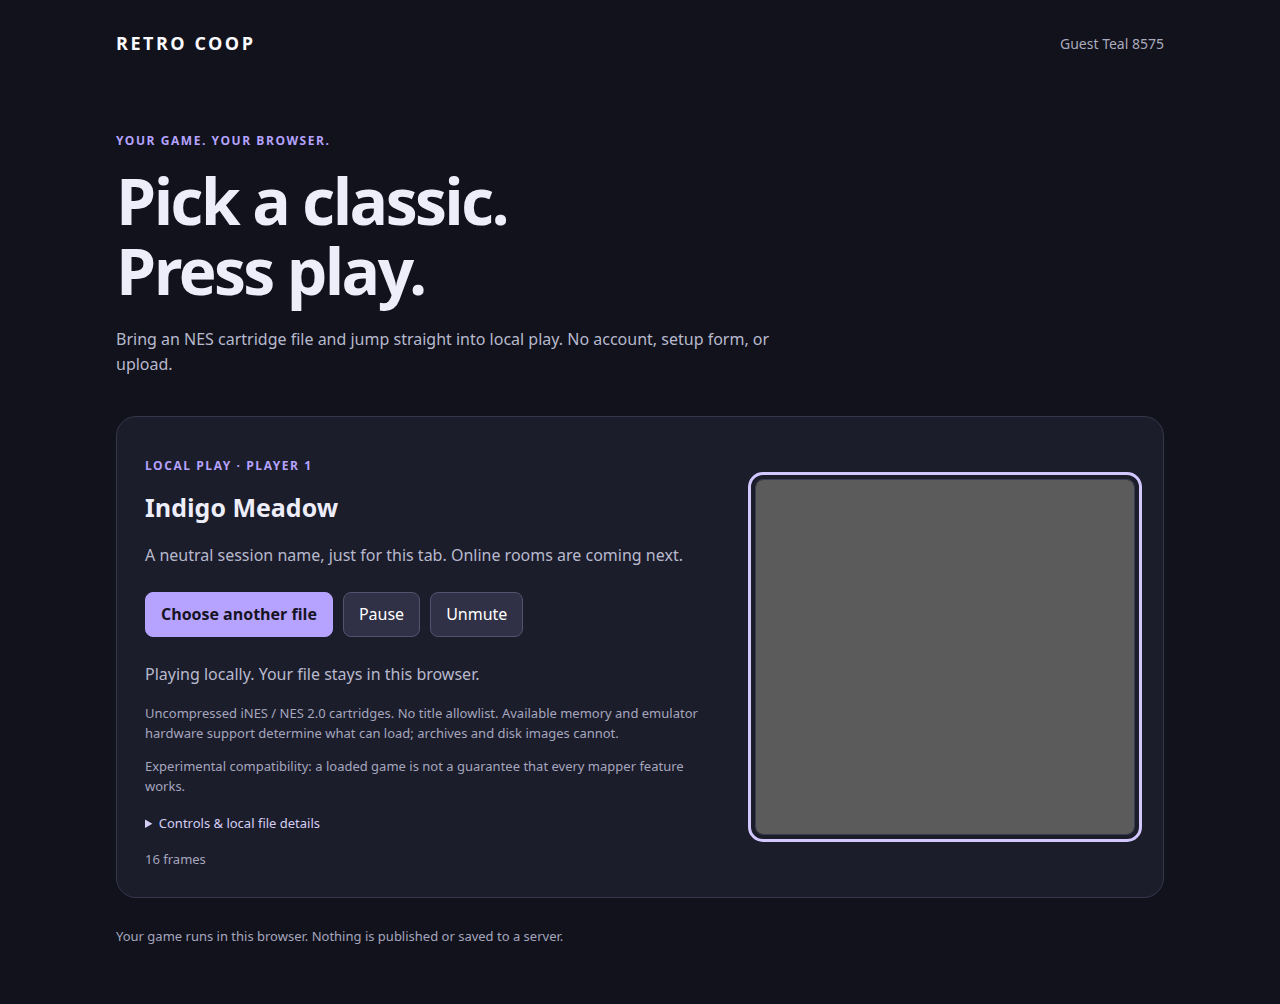
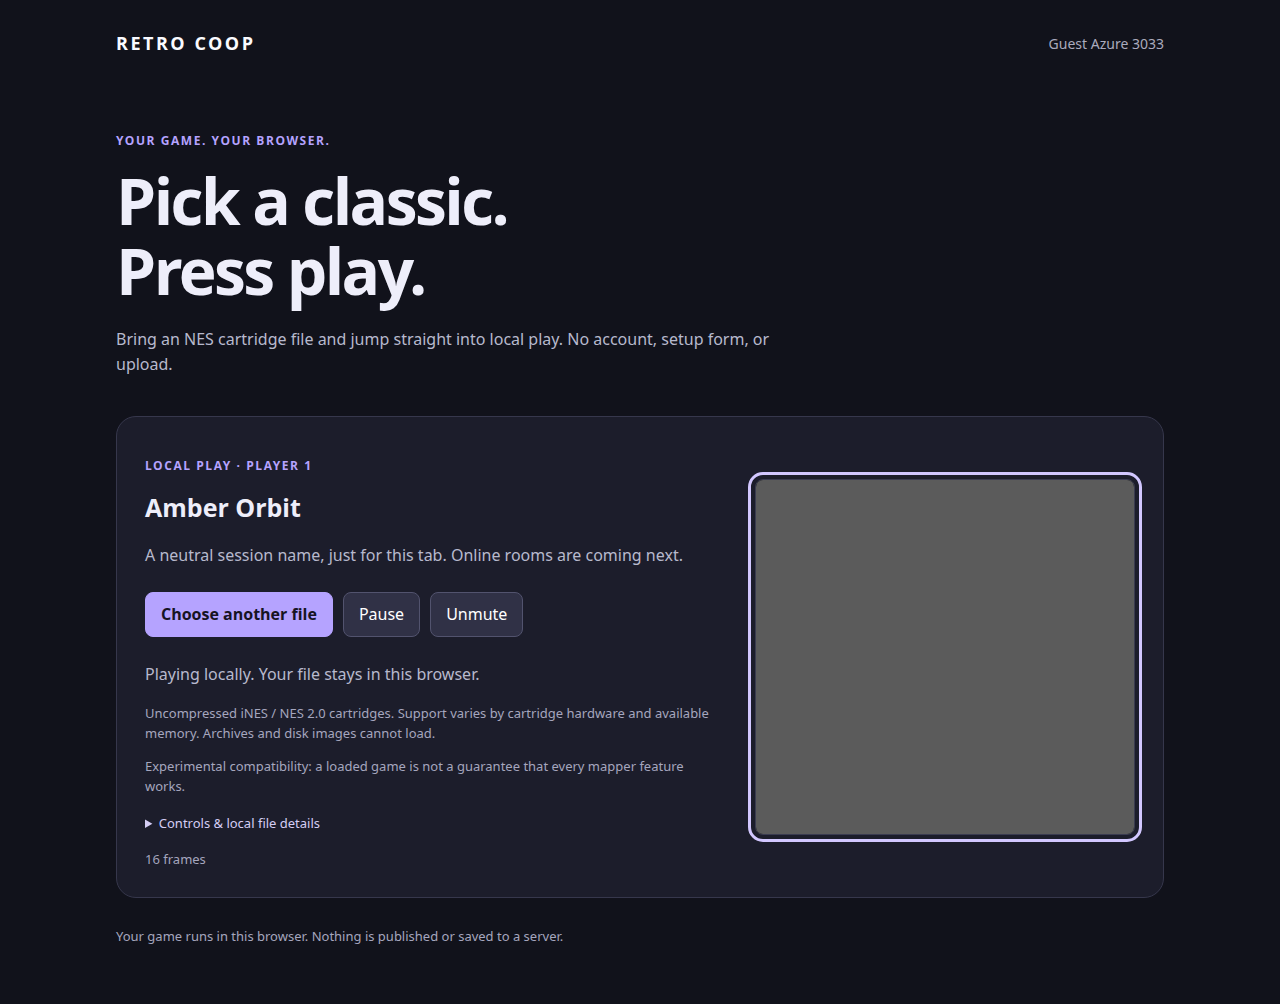
fix: report audio recovery and retain selection errors during play

Changed region(s): [[0.125, 0.7102, 0.5312, 0.741], [0.0938, 0.494, 0.2812, 0.5249], [0.8125, 0.0309, 0.9062, 0.0618]]

diff --git a/apps/client/src/main.tsx b/apps/client/src/main.tsx
@@ -16,13 +16,13 @@ function App() {
  return <main data-coordinator={clientConfig.coordinatorUrl}>
   <header><a href="/" className="brand">RETRO COOP</a><span data-testid="guest">{identity.guest}</span></header>
   <section className="intro"><p className="eyebrow">Your game. Your browser.</p><h1>Pick a classic.<br/>Press play.</h1><p>Bring an NES cartridge file and jump straight into local play. No account, setup form, or upload.</p></section>
-  <section className={`panel ${drag ? 'drag' : ''}`} aria-labelledby="player-title" onDragOver={event => {event.preventDefault(); setDrag(true);}} onDragLeave={event => {if(!event.currentTarget.contains(event.relatedTarget as Node)) setDrag(false);}} onDrop={event => {event.preventDefault();setDrag(false);if(event.dataTransfer.files.length === 1) void runtime.current?.load(event.dataTransfer.files[0]); else setState(old => ({...old,status:'Choose one NES cartridge at a time.'}));}}>
+  <section className={`panel ${drag ? 'drag' : ''}`} aria-labelledby="player-title" onDragOver={event => {event.preventDefault(); setDrag(true);}} onDragLeave={event => {if(!event.currentTarget.contains(event.relatedTarget as Node)) setDrag(false);}} onDrop={event => {event.preventDefault();setDrag(false);if(event.dataTransfer.files.length === 1) void runtime.current?.load(event.dataTransfer.files[0]); else runtime.current?.rejectSelection('Choose one NES cartridge at a time. Your previous game is preserved.');}}>
    <div><p className="eyebrow">Local play · Player 1</p><h2 id="player-title">{state.loaded ? identity.room : 'Drop your NES game here'}</h2>
    <p>{state.loaded ? 'A neutral session name, just for this tab. Online rooms are coming next.' : 'Choose a file, or drop it anywhere in this panel. Your file stays on this device.'}</p>
    <input ref={picker} type="file" accept=".nes" hidden aria-label="NES cartridge file" onChange={event => void runtime.current?.load(event.target.files?.[0])}/>
-   <div className="controls"><button onClick={choose}>{state.loaded ? 'Choose another file' : 'Choose NES file'}</button>{state.loading && <button onClick={() => runtime.current?.cancel()}>Cancel loading</button>}<button disabled={!state.loaded} onClick={() => state.running ? runtime.current?.pause() : runtime.current?.resume()}>{state.running ? 'Pause' : 'Resume'}</button><button aria-pressed={muted} onClick={() => {const value = !muted;setMuted(value);runtime.current?.setMuted(value);}}>{muted ? 'Unmute' : 'Mute'}</button></div>
-   <p role="status" aria-live="polite">{state.status}</p>
-   <p className="hint">Uncompressed iNES / NES 2.0 cartridges. No title allowlist. Available memory and emulator hardware support determine what can load; archives and disk images cannot.</p>
+   <div className="controls"><button onClick={choose}>{state.loaded ? 'Choose another file' : 'Choose NES file'}</button>{state.loading && <button onClick={() => runtime.current?.cancel()}>Cancel loading</button>}<button disabled={!state.loaded || state.loading} onClick={() => state.running ? runtime.current?.pause() : runtime.current?.resume()}>{state.running ? 'Pause' : 'Resume'}</button><button aria-pressed={muted} onClick={() => {const value = !muted;setMuted(value);runtime.current?.setMuted(value);}}>{muted ? 'Unmute' : 'Mute'}</button></div>
+   <p role="status" aria-live="polite">{state.status}</p>{state.audioIssue && <p className="hint">{state.audioIssue} <button onClick={() => runtime.current?.retryAudio()}>Retry sound</button></p>}
+   <p className="hint">Uncompressed iNES / NES 2.0 cartridges. Support varies by cartridge hardware and available memory. Archives and disk images cannot load.</p>
    <p className="hint">Experimental compatibility: a loaded game is not a guarantee that every mapper feature works.</p>
    <details><summary>Controls &amp; local file details</summary><p className="hint">Focus the screen to play. Arrow keys: move · X: A · Z: B · Enter: Start · Shift: Select. Standard gamepad buttons and D-pad work too. Switching windows pauses play.</p>
    {state.fingerprint && <dl data-testid="fingerprint"><dt>Cartridge</dt><dd>{state.fingerprint.cartridge.format} · mapper {state.fingerprint.cartridge.mapper} / {state.fingerprint.cartridge.submapper} · {state.fingerprint.cartridge.region} · {state.fingerprint.cartridge.bytes} bytes</dd><dt>Exact file SHA-256</dt><dd>{state.fingerprint.romSha256}</dd><dt>Emulator build SHA-256</dt><dd>{state.fingerprint.coreSha256}</dd><dt>Local settings (schema {state.fingerprint.localSchema})</dt><dd>{state.fingerprint.settings}</dd></dl>}</details>

diff --git a/apps/client/src/player.ts b/apps/client/src/player.ts
@@ -4,7 +4,7 @@ import { createAudioQueue } from '../../../spikes/d02/demo/runtime/audio.js';
 import { inspectCartridge, hex, type Cartridge } from './cartridge.ts';
 
 export type LocalFingerprint = { romSha256: string; coreSha256: string; localSchema: 1; settings: 'auto-region;zero-ram;48000hz;standard-p1-p2'; cartridge: Cartridge };
-export type PlayerState = { status: string; loading: boolean; running: boolean; loaded: boolean; frames: number; fingerprint?: LocalFingerprint };
+export type PlayerState = { status: string; loading: boolean; running: boolean; loaded: boolean; frames: number; audioIssue?: string; fingerprint?: LocalFingerprint };
 /** Owns browser-local resources. A candidate replaces the active worker only after initialization succeeds. */
 export class LocalPlayer {
  private active?: Worker;
@@ -28,7 +28,7 @@ export class LocalPlayer {
   canvas.addEventListener('blur',this.release);
   this.animation = requestAnimationFrame(this.tick);
  }
- private publish(patch: Partial<PlayerState>) { this.state = {...this.state,...patch}; this.update(this.state); }
+ private publish(patch: Partial<PlayerState>) { if(this.disposed) return; this.state = {...this.state,...patch}; this.update(this.state); }
  private send(worker: Worker, message: WorkerRequest, transfer: Transferable[] = []) { worker.postMessage(message,transfer); }
  private release = () => { this.keys = 0; };
  private down = (event: KeyboardEvent) => { const bit = keyMap[event.code as keyof typeof keyMap]; if(bit && document.activeElement === this.canvas && this.state.running) { event.preventDefault(); this.keys |= bit; } };
@@ -44,6 +44,7 @@ export class LocalPlayer {
   this.send(this.active,{type:'frame',p1:this.keys | pad,p2:0});
  };
  private abandonCandidate() { ++this.generation; this.reader?.abort(); this.reader = undefined; this.candidate?.terminate(); this.candidate = undefined; }
+ rejectSelection(message: string) { this.abandonCandidate(); this.publish({loading:false,status:message}); }
  cancel() {
   this.abandonCandidate();
   this.publish({loading:false,status:this.state.loaded ? 'Selection cancelled. Your previous game is still here.' : 'Selection cancelled. Choose a game whenever you’re ready.'});
@@ -58,11 +59,12 @@ export class LocalPlayer {
   this.activateAudio(); this.last = 0; this.publish({running:true,status:'Playing locally. Your file stays in this browser.'}); this.canvas.focus();
  }
  setMuted(value: boolean) { this.muted = value; if(this.gain) this.gain.gain.value = value ? 0 : 1; this.audio.flush(); if(!value) this.activateAudio(); }
+ retryAudio() { this.activateAudio(); }
  private activateAudio() {
   try {
    if(!this.context) { this.context = new AudioContext(); this.gain = this.context.createGain(); this.gain.gain.value = this.muted ? 0 : 1; this.gain.connect(this.context.destination); }
-   void this.context.resume().catch(() => {}); // Audio permission must never prevent local play; Unmute retries from a gesture.
-  } catch { /* A browser without Web Audio can still run the cartridge. */ }
+   void this.context.resume().then(() => this.publish({audioIssue:this.context?.state === 'running' ? undefined : 'Sound is blocked. Retry sound to allow it; your game can continue.'})).catch(() => this.publish({audioIssue:'Sound could not start. Retry sound; your game can continue.'}));
+  } catch { this.publish({audioIssue:'Sound is unavailable in this browser. Your game can continue.'}); }
  }
  private read(file: File): Promise<ArrayBuffer> {
   return new Promise((resolve,reject) => {

diff --git a/scripts/foundation/browser_smoke.py b/scripts/foundation/browser_smoke.py
@@ -137,10 +137,22 @@ with http.server.ThreadingHTTPServer(('127.0.0.1', 0), handler) as server:
         page.set_viewport_size({'width':390,'height':844})
         assert page.evaluate('document.documentElement.scrollWidth<=innerWidth')
         page.screenshot(path=str(output.with_suffix('.mobile.png')),full_page=True)
+        # Audio permission failure is visible and never blocks frames; an explicit retry recovers.
+        audio_page = browser.new_page()
+        audio_page.add_init_script('''const resume=AudioContext.prototype.resume; window.denySound=true;
+          AudioContext.prototype.resume=function(){return denySound ? Promise.reject(new Error('denied')) : resume.call(this)};''')
+        audio_page.goto(f'http://127.0.0.1:{server.server_port}/')
+        audio_page.set_input_files('input[type=file]', {'name':'audio-check.nes','mimeType':'application/octet-stream','buffer':rom})
+        audio_page.wait_for_function("Number(document.querySelector('output').textContent.split(' ')[0])>10")
+        assert audio_page.get_by_role('button',name='Retry sound').is_visible()
+        audio_page.evaluate('denySound=false')
+        audio_page.get_by_role('button',name='Retry sound').click()
+        audio_page.get_by_role('button',name='Retry sound').wait_for(state='detached')
+        audio_page.close()
         assert not errors, errors
         assert all(method == 'GET' and url.startswith(f'http://127.0.0.1:{server.server_port}/') for method,url in requests), requests
         assert not any(name in url for _,url in requests for name in ['private','unknown','drag-'])
-        result = {'result':'pass','browser':browser.version,'duration_seconds':round(time.monotonic()-started,2),'audio':proof,'input_changed_canvas':True,'paused_canvas_stable':True,'cancel_and_blur_preserve_previous':True,'latest_selection_wins':True,'invalid_header_and_mapper_preserve_previous':True,'chooser_dismissal_preserved':True,'exact_rom_and_core_sha256':True,'unknown_mappers_loaded':[0,1,2,3,4,7],'nes2_over_8mib_loaded':True,'picker_and_drop_start_automatically':True,'mobile_no_overflow':True,'page_errors':errors,'requests':requests,'coordinator_url':page.locator('main').get_attribute('data-coordinator')}
+        result = {'result':'pass','browser':browser.version,'duration_seconds':round(time.monotonic()-started,2),'audio':proof,'audio_denial_does_not_block_and_retry_recovers':True,'input_changed_canvas':True,'paused_canvas_stable':True,'cancel_and_blur_preserve_previous':True,'latest_selection_wins':True,'invalid_header_and_mapper_preserve_previous':True,'chooser_dismissal_preserved':True,'exact_rom_and_core_sha256':True,'unknown_mappers_loaded':[0,1,2,3,4,7],'nes2_over_8mib_loaded':True,'picker_and_drop_start_automatically':True,'mobile_no_overflow':True,'page_errors':errors,'requests':requests,'coordinator_url':page.locator('main').get_attribute('data-coordinator')}
         output.write_text(json.dumps(result,indent=2)+'\n')
         print(json.dumps(result,indent=2))
         browser.close()

diff --git a/docs/implementation/d05-local-play.md b/docs/implementation/d05-local-play.md
@@ -14,7 +14,7 @@ For a production bundle run `npm run build`. With Playwright 1.58.0 and Chromium
 python3 scripts/foundation/browser_smoke.py --output /tmp/foundation.local.json
 ```
 
-`--chrome` uses installed Chrome. The browser check uses the original generated diagnostic, never a downloaded commercial title. It observes rendered changes from input and nonzero PCM scheduled through the muted game gain; checks picker/drop, invalid file/hardware preservation, cancellation and late digest completion; compares exact ROM and WASM hashes; loads representative mapper headers 0/1/2/3/4/7 and an NES 2.0 file over 8 MiB; inspects outbound methods/URLs and mobile overflow. These fixtures exercise admission and basic execution, not bank switching or the complete D20 compatibility matrix. Browser evidence and screenshots are retained by CI's existing `foundation.local.*.png` artifact pattern.
+`--chrome` uses installed Chrome. The browser check uses the original generated diagnostic, never a downloaded commercial title. It observes rendered changes from input and nonzero PCM scheduled through the muted game gain; checks picker/drop, invalid file/hardware preservation, cancellation and late digest completion; compares exact ROM and WASM hashes; proves audio denial leaves frames running and explicit retry recovers; loads representative mapper headers 0/1/2/3/4/7 and an NES 2.0 file over 8 MiB; inspects outbound methods/URLs and mobile overflow. These fixtures exercise admission and basic execution, not bank switching or the complete D20 compatibility matrix. Browser evidence and screenshots are retained by CI's existing `foundation.local.*.png` artifact pattern.
 
 The README's full `timeout 60s sh scripts/preflight.sh` includes focused header tests, generated-name isolation and existing TypeScript/service/codec checks. Presubmit retains the shared 30-minute deadline. No additional long post-submit test is required for this slice. The release-level 30-attempt cross-browser startup budgets remain D21/D23 qualification; the single browser smoke is not a p95 claim.
 
